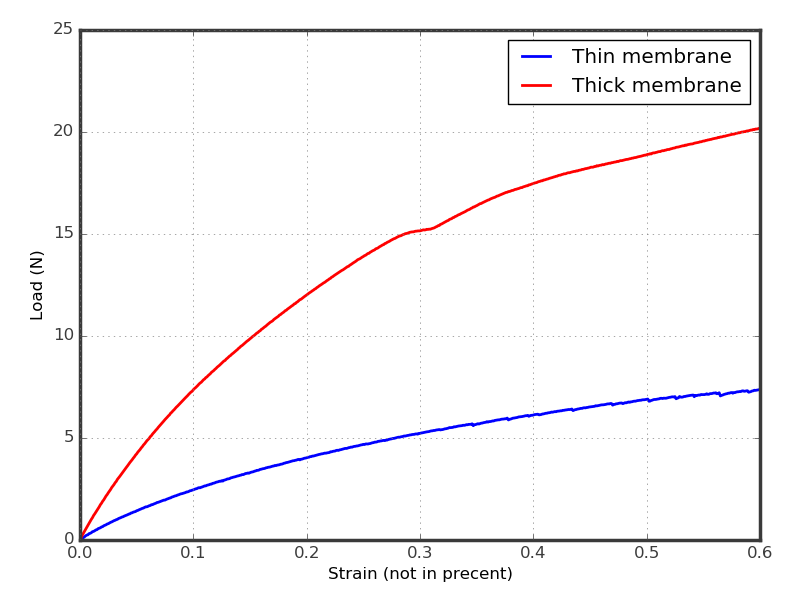
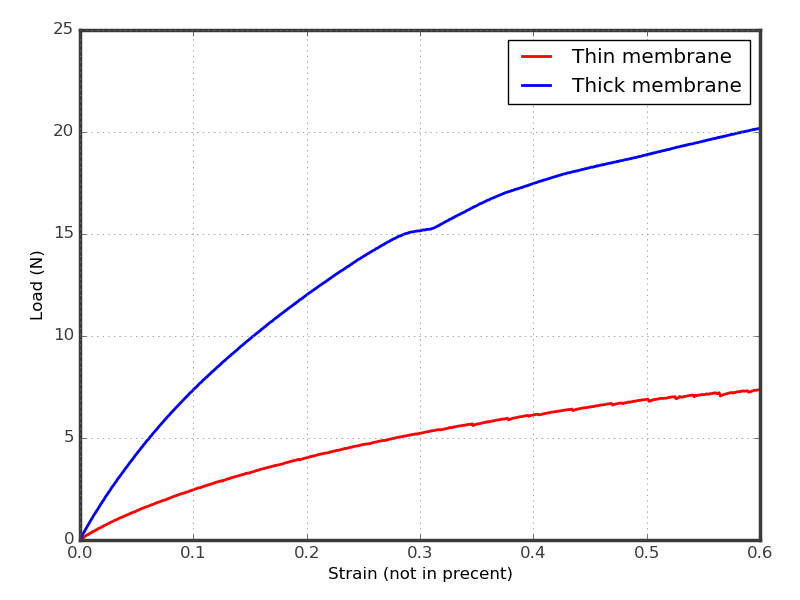
small change

diff --git a/Templates/membraneTensionTest/plot.py b/Templates/membraneTensionTest/plot.py
@@ -16,8 +16,8 @@ Time,Extension,ThinMembraneLoad,ThickMembraneLoad = np.loadtxt('membraneTensionT
 initialLength = 100 # in mmm
 strain = Extension / 100
 
-ax1.plot(strain, ThinMembraneLoad, label='Thin membrane', color='blue', linewidth=2)
-ax1.plot(strain, ThickMembraneLoad, label='Thick membrane', color='red', linewidth=2)
+ax1.plot(strain, ThinMembraneLoad, label='Thin membrane', color='red', linewidth=2)
+ax1.plot(strain, ThickMembraneLoad, label='Thick membrane', color='blue', linewidth=2)
 
 
 ax1.set_xlabel('Strain (not in precent)')
